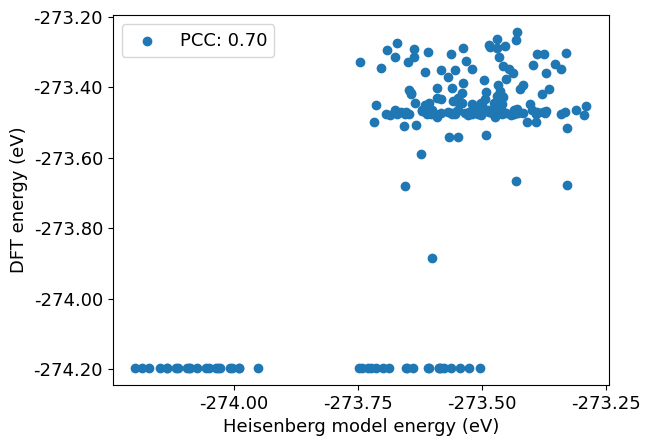
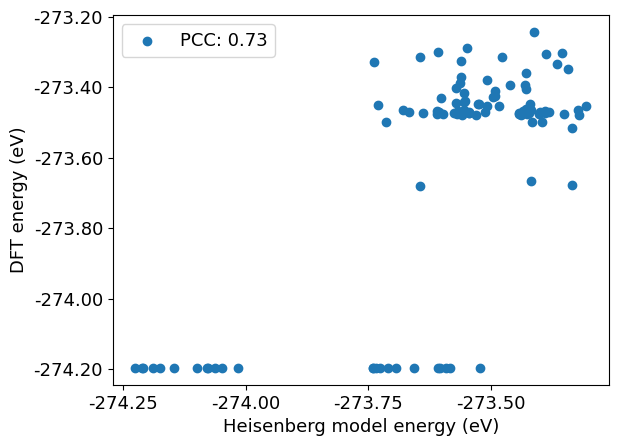
Updated 3_monte_carlo/1_coupling_constants.py

diff --git a/3_monte_carlo/1_coupling_constants.py b/3_monte_carlo/1_coupling_constants.py
@@ -46,10 +46,10 @@ formula = input_structure.formula.replace(' ','')
 path_to_automag = os.environ.get('AUTOMAG_PATH')
 # path to the folder with results from collinear calculations
 # path_to_coll = path_to_automag + '/2_coll/' + f'{formula}{struct_suffix}/{formula}{struct_suffix}_{calculator}/'
-path_to_coll = path_to_automag + '/2_coll/' + f'{formula}{struct_suffix}/{formula}_{calculator}/'
+path_to_coll = path_to_automag + '/2_coll/' + f'{formula}{struct_suffix}/{formula}{struct_suffix}_{calculator}/'
 if not os.path.isdir(path_to_coll):
     # path_to_coll = path_to_automag + '/2_coll/' + f'{formula}{struct_suffix}_{calculator}/'
-    path_to_coll = path_to_automag + '/2_coll/' + f'{formula}_{calculator}/'
+    path_to_coll = path_to_automag + '/2_coll/' + f'{formula}{struct_suffix}_{calculator}/'
     if not os.path.isdir(path_to_coll):
         path_to_coll = path_to_automag + '/2_coll/'
 
@@ -66,12 +66,12 @@ energies = None
 for item in os.listdir(path_to_coll):
     rel_path = os.path.join(path_to_coll, item)
     if os.path.isfile(rel_path):
-        if item.startswith(f'{formula}_{calculator}_setting') and item.endswith('.vasp'):
+        if item.startswith(f'{formula}{struct_suffix}_{calculator}_setting') and item.endswith('.vasp'):
             structure = Structure.from_file(rel_path)
-        if item.startswith(f'{formula}_{calculator}_states') and item.endswith('.txt'):
+        if item.startswith(f'{formula}{struct_suffix}_{calculator}_states') and item.endswith('.txt'):
             with open(rel_path, 'rt') as f:
                 states = json.load(f)
-        if item.startswith(f'{formula}_{calculator}_energies') and item.endswith('.txt'):
+        if item.startswith(f'{formula}{struct_suffix}_{calculator}_energies') and item.endswith('.txt'):
             with open(rel_path, 'rt') as f:
                 energies = json.load(f)
 

diff --git a/3_monte_carlo/Al10Fe20Mo10/input.py b/3_monte_carlo/Al10Fe20Mo10/input.py
@@ -2,13 +2,13 @@
 configuration = 'afm448'
 
 # choose the cutoff radius in Angstrom for neighbor search
-cutoff_radius = 12.1
+cutoff_radius = 10.1
 
 # choose the size of the control group
-control_group_size = 0.4
+control_group_size = 0.2
 
 # append coupling constant before launching 2_write_vampire_ucf.py
-append_coupling_constants = False
+append_coupling_constants = True
 
 # choose the atomic types to be considered magnetic (default transition metals)
 magnetic_atoms = ['Fe']
@@ -20,3 +20,10 @@ poscar_file = 'Al10Fe20Mo10.vasp'
 calculator = 'vasp'
 
 struct_suffix = ''
+# LINE ADDED BY THE SCRIPT 1_coupling_constants.py
+distances_between_neighbors = [2.93, 4.144, 5.076, 5.861, 6.552, 7.178, 8.288, 8.791, 9.267, 9.719]
+
+# LINE ADDED BY THE SCRIPT 1_coupling_constants.py
+coupling_constants = [ 4.89176601e-22, -2.22882271e-21, -1.52146090e-21,  2.57554824e-21,
+  6.36806047e-22, -5.76565977e-22,  1.14336801e-21,  4.61271149e-23,
+  8.22520718e-22, -4.80218439e-22]
